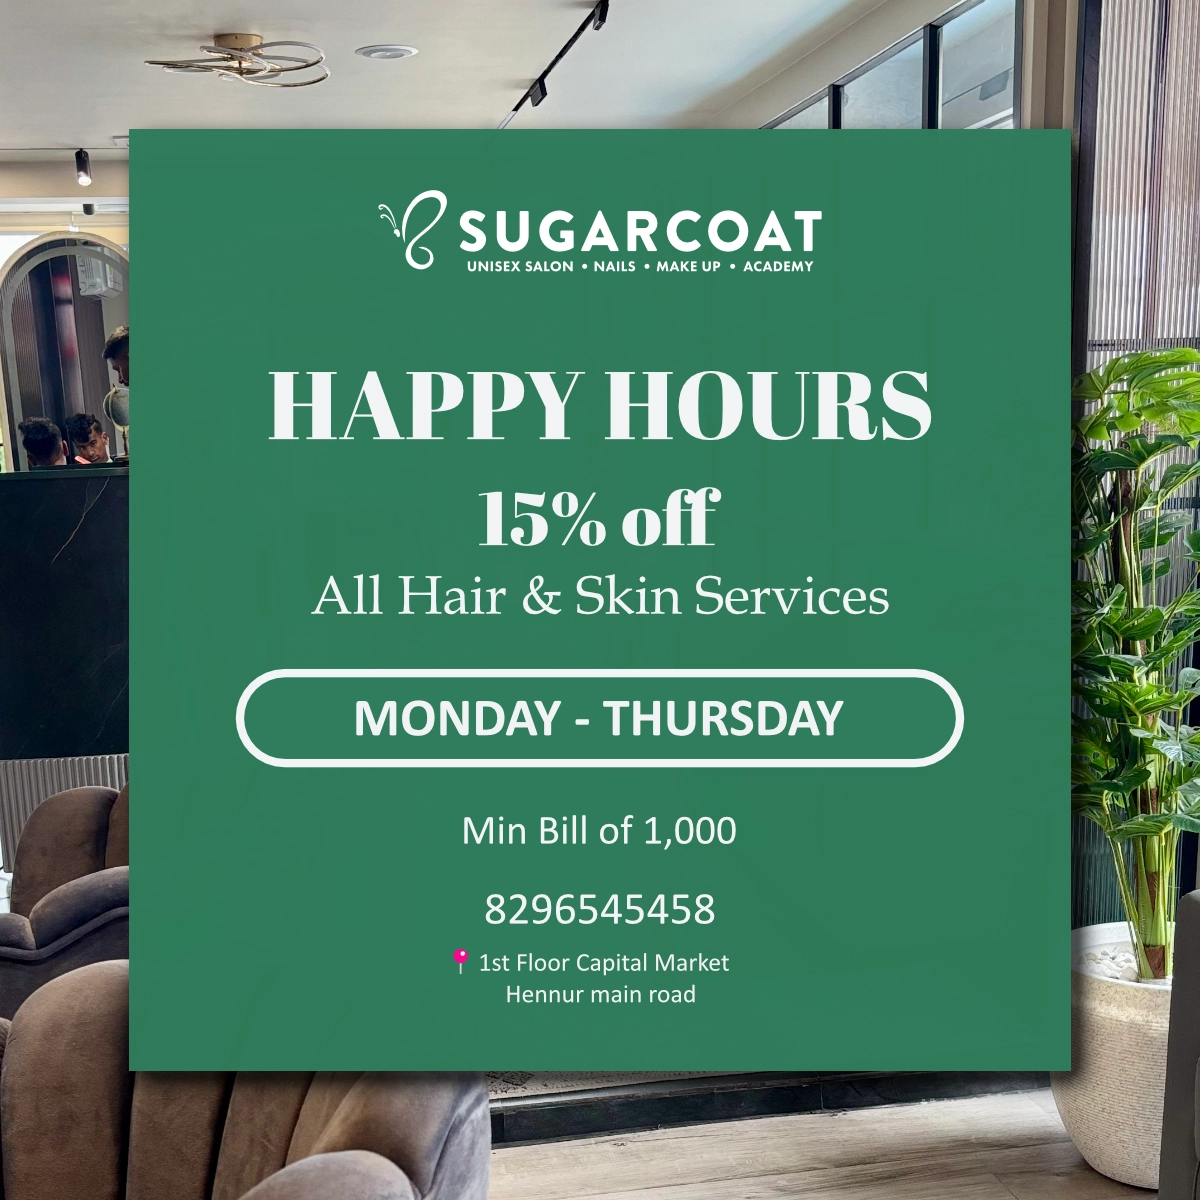
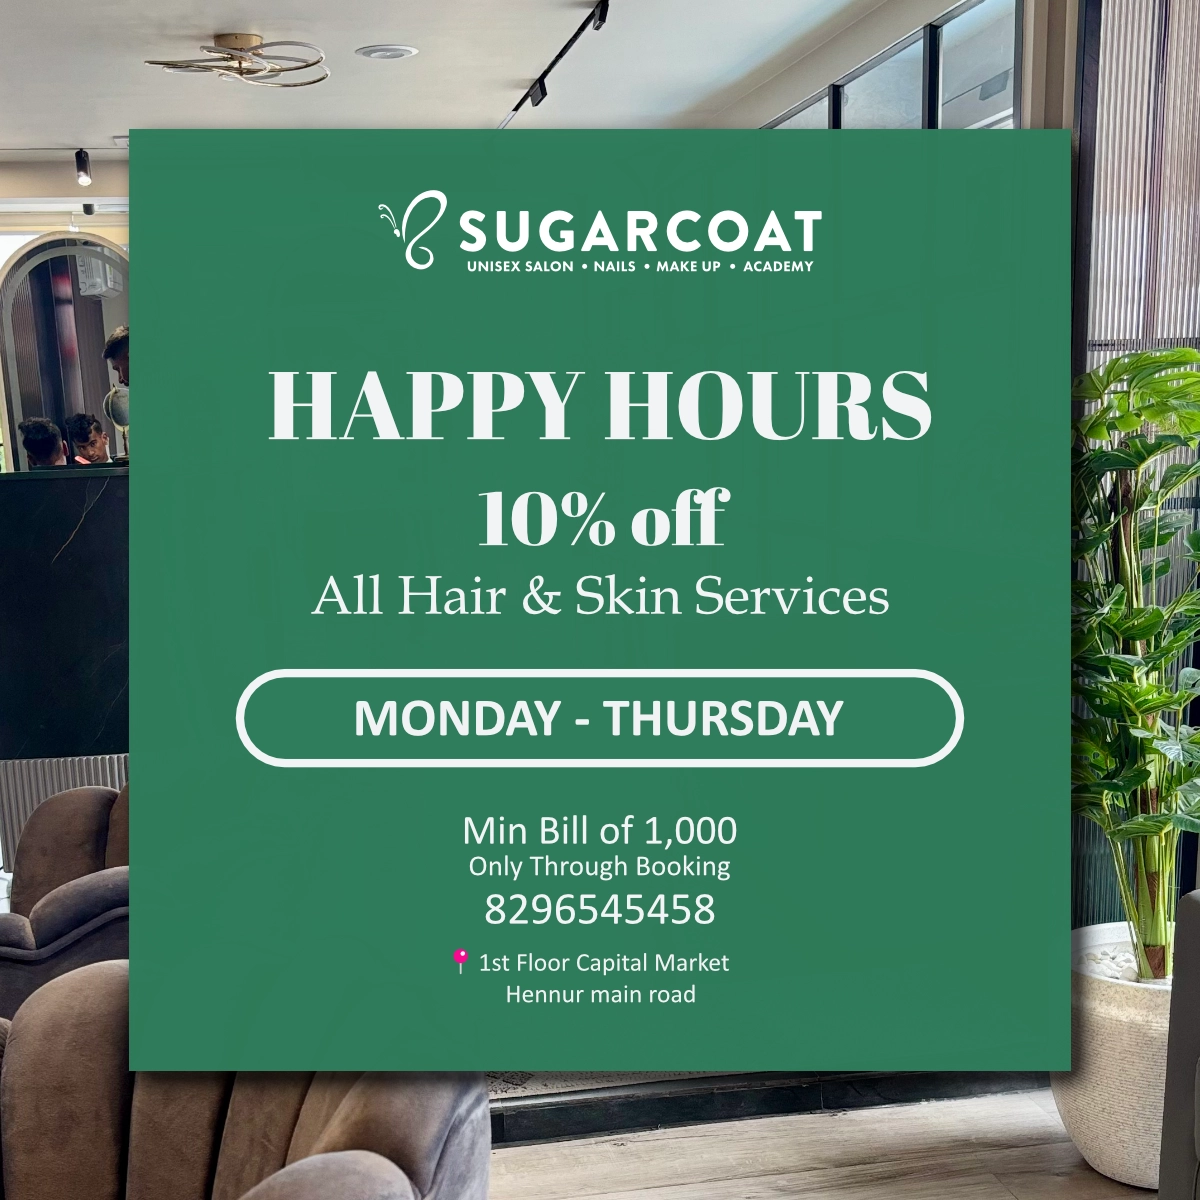
offer updaed

Changed region(s): [[0.37, 0.6783, 0.6167, 0.74], [0.4008, 0.4008, 0.6167, 0.4625]]

diff --git a/offers.html b/offers.html
@@ -268,7 +268,7 @@
                                                 <div class="card-title margin-bottom-10px">Happy Hours Offer.
                                                 </div>
                                                 <p class="paragraph small-paragraph margin-bottom-20px">From Monday to
-                                                    Thursday, Get 15% Off on any Hair & SKin services</br>Book your
+                                                    Thursday, Get 10% Off on any Hair & SKin services</br>Book your
                                                     slots through Phone or Whatsapp.</br>Salon
                                                     Offers in Hennur Main Road,
                                                     Bangalore
